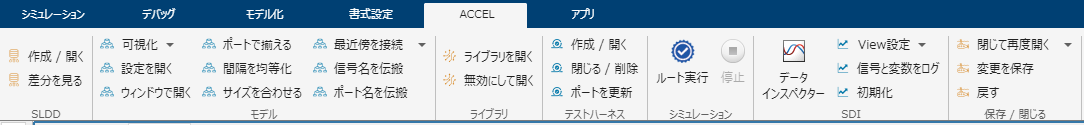
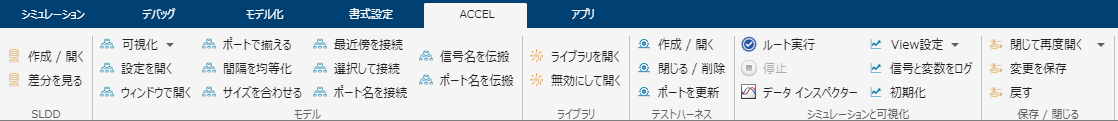
Arrange button and revise connecting features.

diff --git a/tshintai_simulinkcustomtab/connect_same_port_names_tshintaiCustomTab.m b/tshintai_simulinkcustomtab/connect_same_port_names_tshintaiCustomTab.m
@@ -104,6 +104,7 @@ for i = 1:numel(inport_names)
             ~strcmp(disconnected_inport_list{i, 1}, ...
                     all_outport_list{j, 1}) )
             try
+                delete_unconnected_line(all_outport_list{j, 3});
                 add_line(this_layer, ...
                     all_outport_list{j, 3}, ...
                     disconnected_inport_list{i, 3}, ...
@@ -117,6 +118,16 @@ end
 
 end
 
+
+function delete_unconnected_line(outport_handle)
+    line_handle = get_param(outport_handle, 'Line');
+    if (line_handle > -0.5)
+        dst_block_name = get_param(line_handle, 'DstBlock');
+        if isempty(dst_block_name)
+            delete_line(line_handle);
+        end
+    end
+end
 
 function port_names = get_port_names(disconnected_list, ...
     chart_port_names, MF_port_names)

diff --git a/tshintai_simulinkcustomtab/connect_nearest_ports_tshintaiCustomTab.m b/tshintai_simulinkcustomtab/connect_nearest_ports_tshintaiCustomTab.m
@@ -185,12 +185,20 @@ end
 %%
 for i = 1:smaller_inout_num
     inout_handles = combination_min_vec{1, i};
+    delete_unconnected_line(inout_handles(2));
     add_line(this_system, inout_handles(2), inout_handles(1), ...
         'autorouting','smart');
 end
 
 end
 
+
+function delete_unconnected_line(outport_handle)
+    line_handle = get_param(outport_handle, 'Line');
+    if (line_handle > -0.5)
+        delete_line(line_handle);
+    end
+end
 
 function error_too_many_disconnected_ports()
 

diff --git a/ReadMe.md b/ReadMe.md
@@ -207,11 +207,15 @@ edit equalize_block_positions_tshintaiCustomTab
 edit match_block_size_tshintaiCustomTab
 ```
 
-### 2.7.信号接続系ドロップダウン
-### 2.7.1.「最近傍を接続」ボタン
+### 2.7.「最近傍を接続」ボタン
 
 
 コメントアウトされていないブロックの未接続ポートを、最も近い入力、出力ポート同士の組み合わせで接続する。
+
+
+
+
+ブロックが選択されていれば、選択されているブロック群の範囲内で接続を行う。
 
 
 
@@ -219,7 +223,7 @@ edit match_block_size_tshintaiCustomTab
 edit connect_nearest_ports_tshintaiCustomTab
 ```
 
-### 2.7.2.「選択して接続」ボタン
+### 2.8.「選択して接続」ボタン
 
 
 ブロックや信号線の選択状態に応じて以下のどちらかの処理を行う。
@@ -239,7 +243,7 @@ edit connect_nearest_ports_tshintaiCustomTab
 edit connect_rename_log_line_tshintaiCustomTab
 ```
 
-### 2.7.3.「同じポート名を接続」ボタン
+### 2.9.「ポート名を接続」ボタン
 
 
 現在の階層の中から未接続のInport, Outport, Subsystem, Stateflowブロックのポートを探し、同じ名前のポート名同士を接続する。
@@ -250,7 +254,7 @@ edit connect_rename_log_line_tshintaiCustomTab
 edit connect_same_port_names_tshintaiCustomTab
 ```
 
-### 2.8.「信号名を伝搬」ボタン
+### 2.10.「信号名を伝搬」ボタン
 
 
 今の階層以下のモデル内を検索し、信号線が接続されているポートに対して以下の操作を行う。
@@ -267,7 +271,7 @@ edit connect_same_port_names_tshintaiCustomTab
 edit match_port_line_name_tshintaiCustomTab
 ```
 
-### 2.9.「ポート名を伝搬」ボタン
+### 2.11.「ポート名を伝搬」ボタン
 
 
 信号線が選択されていない場合、今の階層のInport, Outportブロックのブロック名を接続されている信号線の信号名へコピーする。信号線が選択されている場合、その信号に対してのみ、コピーを実行する。
@@ -355,7 +359,7 @@ edit close_delete_test_harness_tshintaiCustomTab
 edit auto_connect_ports_in_test_harness_tshintaiCustomTab
 ```
 
-## 5.シミュレーション セクション
+## 5.シミュレーションと可視化 セクション
 ### 5.1.「ルート実行」ボタン
 
 
@@ -367,9 +371,8 @@ edit auto_connect_ports_in_test_harness_tshintaiCustomTab
 edit root_run_tshintaiCustomTab
 ```
 
-## 6.SDI セクション
-### 6.1.「View設定」ボタン
-### 6.1.1.「Viewを保存」ボタン
+### 5.2.「View設定」ボタン
+### 5.2.1.「Viewを保存」ボタン
 
 
 今のシミュレーションデータインスペクターのViewをファイルに保存する。ファイル名にはモデル名を含める。
@@ -385,7 +388,7 @@ edit root_run_tshintaiCustomTab
 edit save_this_SDI_view_tshintaiCustomTab
 ```
 
-### 6.1.2.「Viewを読み込み」ボタン
+### 5.2.2.「Viewを読み込み」ボタン
 
 
 「Viewを保存」で保存された、モデル名に紐づいた設定ファイルを読み込む。
@@ -396,7 +399,7 @@ edit save_this_SDI_view_tshintaiCustomTab
 edit load_this_model_view_tshintaiCustomTab
 ```
 
-### 6.2.「名前付信号をログ」ボタン
+### 5.3.「名前付信号をログ」ボタン
 
 
 ブロックに接続されていて、かつ名前が付いている信号線をシミュレーションデータインスペクターにログするように設定する。また、Simscape変数のログ設定のOn, Offの切り替えも行う。
@@ -412,7 +415,7 @@ edit load_this_model_view_tshintaiCustomTab
 edit log_named_line_tshintaiCustomTab
 ```
 
-### 6.3.「初期化」ボタン
+### 5.4.「初期化」ボタン
 
 
 シミュレーションデータインスペクターの環境設定とアーカイブを初期化する。
@@ -423,9 +426,9 @@ edit log_named_line_tshintaiCustomTab
 edit initialize_SDI_tshintaiCustomTab
 ```
 
-## 7.保存 / 閉じる セクション
-### 7.1.「閉じる系」ドロップダン
-### 7.1.1.「閉じて再度開く」ボタン
+## 6.保存 / 閉じる セクション
+### 6.1.「閉じる系」ドロップダン
+### 6.1.1.「閉じて再度開く」ボタン
 
 
 モデルファイルを保存せずに閉じ、そのモデルファイルを再度開く。このスクリプトは、モデルを保存された状態に戻すことが目的である。
@@ -436,7 +439,7 @@ edit initialize_SDI_tshintaiCustomTab
 edit close_and_reopen_model_tshintaiCustomTab
 ```
 
-### 7.1.2.「すべて閉じる」ボタン
+### 6.1.2.「すべて閉じる」ボタン
 
 
 開いているSimulinkモデルを全て閉じる。モデルは保存して閉じる。
@@ -447,7 +450,7 @@ edit close_and_reopen_model_tshintaiCustomTab
 edit close_all_Simulink_windows_tshintaiCustomTab
 ```
 
-### 7.1.3.「PJを閉じる」ボタン
+### 6.1.3.「PJを閉じる」ボタン
 
 
 プロジェクトを開いている場合、プロジェクトを閉じる。開いていない場合、何もしない。
@@ -458,7 +461,7 @@ edit close_all_Simulink_windows_tshintaiCustomTab
 edit close_project_tshintaiCustomTab
 ```
 
-### 7.2.「変更を保存」ボタン
+### 6.2.「変更を保存」ボタン
 
 
 このボタンをクリックしたモデルの参照先モデルと自身を確認し、変更されているものだけを保存する。
@@ -474,7 +477,7 @@ edit close_project_tshintaiCustomTab
 edit save_dirty_models_tshintaiCustomTab
 ```
 
-### 7.3.「戻す」ボタン
+### 6.3.「戻す」ボタン
 
 
 モデルファイルを閉じ、その後ローカルリポジトリの最新コミットの状態に戻す。
